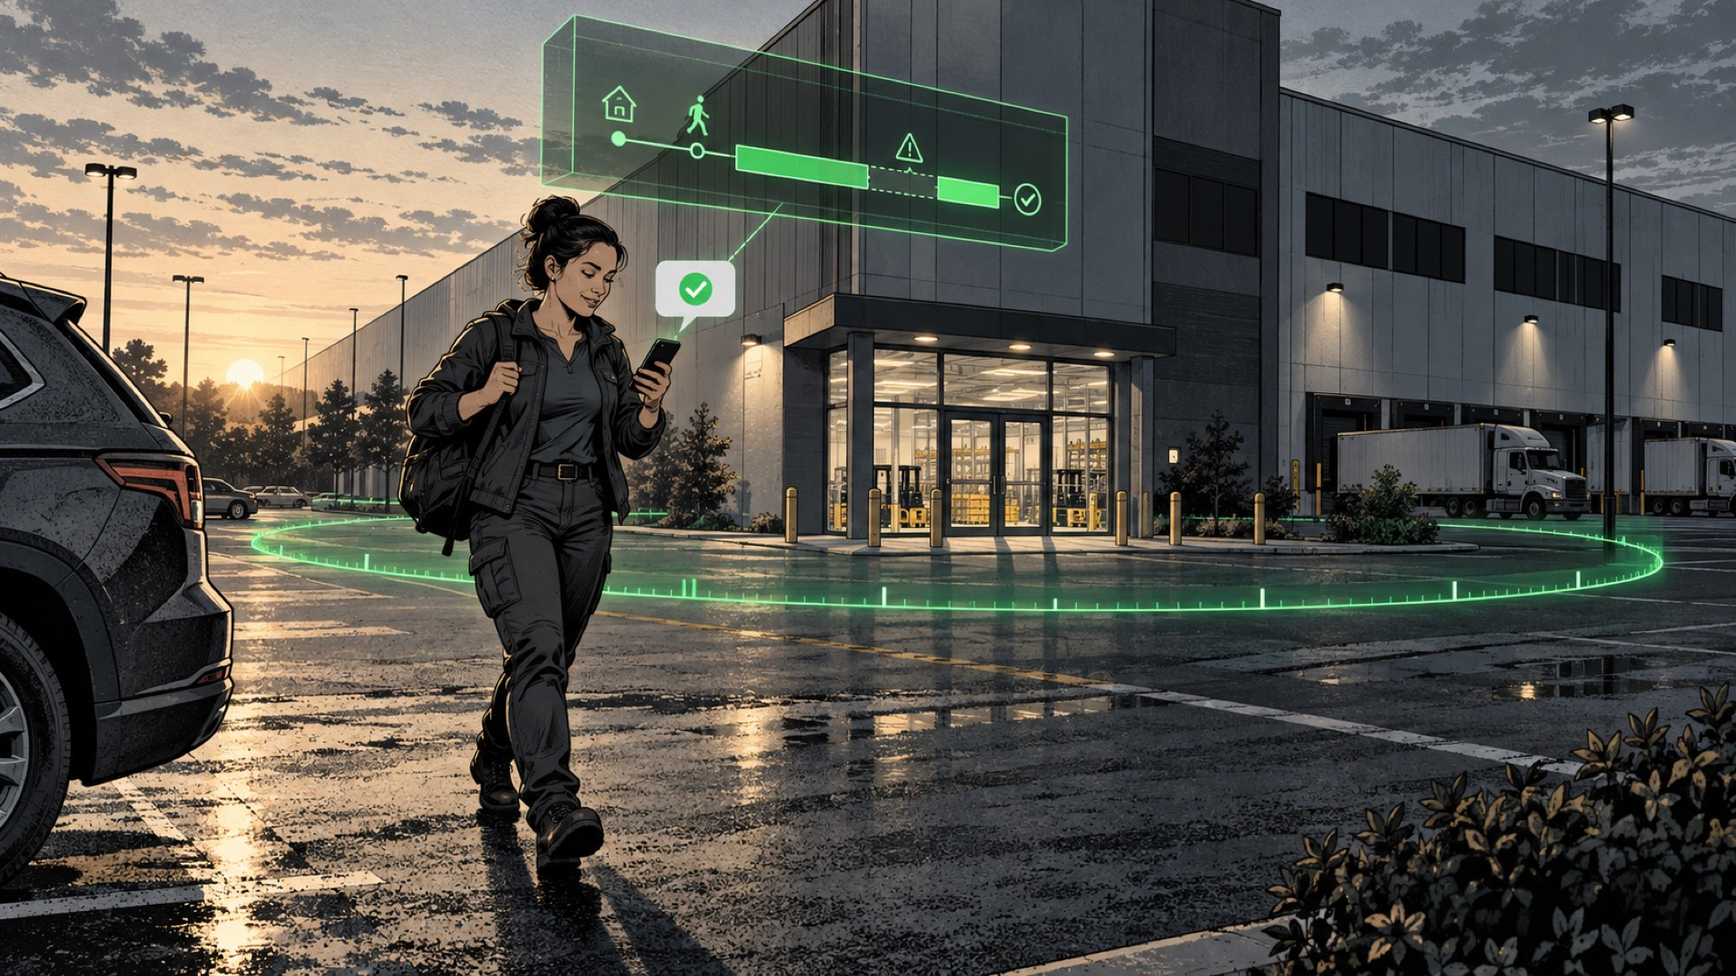
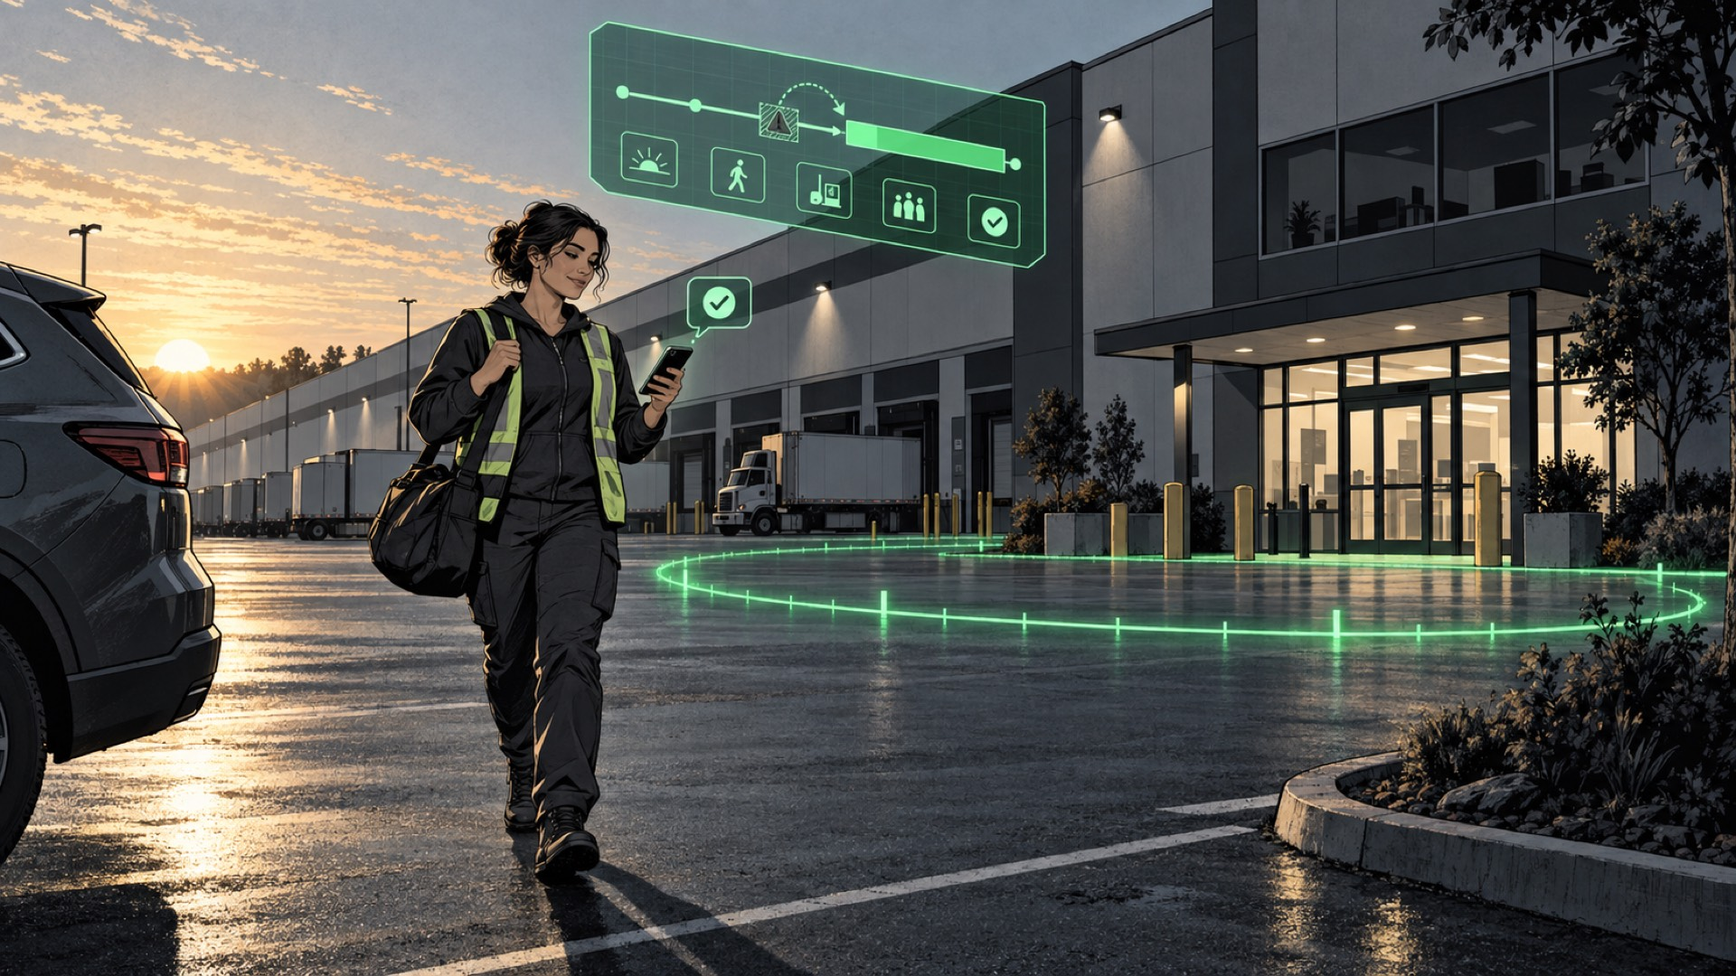
story: extend to 30 slides — data beat, payroll-ops AI frames 13–19, eight product component screenshots
Claude-Session: https://claude.ai/code/session_01WeFBVZdtUQHxNr4TKy9Cv4

diff --git a/story/index.html b/story/index.html
@@ -10,7 +10,7 @@
   <link rel="preconnect" href="https://fonts.googleapis.com">
   <link rel="preconnect" href="https://fonts.gstatic.com" crossorigin>
   <link href="https://fonts.googleapis.com/css2?family=Space+Grotesk:wght@500;700&family=Inter:wght@400;500&display=swap" rel="stylesheet">
-  <link rel="stylesheet" href="deck.css?v=3">
+  <link rel="stylesheet" href="deck.css?v=4">
 </head>
 <body>
   <header class="chrome">
@@ -128,6 +128,160 @@
       </div>
     </section>
 
+
+    <section class="slide">
+      <figure class="frame frame--ui" data-label="ui-retention"><img src="assets/ui-retention.jpg" alt="Report chart: 49% of workers start a job search after two paycheck errors"></figure>
+      <div class="copy">
+        <p class="eyebrow">13 · The numbers</p>
+        <h1>Two paycheck errors and half your workforce is looking.</h1>
+        <p>This is not a hunch. 49% of U.S. workers start job hunting after two paycheck problems, and replacing a worker earning under $30K costs 16% of annual pay.</p>
+      </div>
+    </section>
+
+    <section class="slide">
+      <figure class="frame frame--ui" data-label="ui-turnover"><img src="assets/ui-turnover.jpg" alt="Report chart: hospital RN turnover by year with cost tiles"></figure>
+      <div class="copy">
+        <p class="eyebrow">14 · The numbers</p>
+        <h1>Turnover is the P&L.</h1>
+        <p>Healthcare pays about $60,000 for every nurse who leaves. Light industrial refills most of the roster every year. Reliability is the number that compounds.</p>
+      </div>
+    </section>
+
+    <section class="slide">
+      <figure class="frame" data-label="13-two-questions"><img src="assets/13-two-questions.jpg" alt="A shift card between a pay envelope and a customer invoice"></figure>
+      <div class="copy">
+        <p class="eyebrow">15 · Payroll ops</p>
+        <h1>Every shift has to answer two questions.</h1>
+        <p>How much do I pay the worker? How much do I bill the customer? Every shift, every week, before the cutoff.</p>
+      </div>
+    </section>
+
+    <section class="slide">
+      <figure class="frame" data-label="14-three-clocks"><img src="assets/14-three-clocks.jpg" alt="Three panels: a badge kiosk, a phone clock-in, a GPS trail, each with a different time"></figure>
+      <div class="copy">
+        <p class="eyebrow">16 · Payroll ops</p>
+        <h1>The answer comes from three sources that disagree.</h1>
+        <p>The customer's clock or clipboard. The app the worker clocks in on. The phone's location. They arrive at different times and rarely say the same thing.</p>
+      </div>
+    </section>
+
+    <section class="slide">
+      <figure class="frame" data-label="15-rulebook-in-heads"><img src="assets/15-rulebook-in-heads.jpg" alt="Payroll clerk surrounded by binders and sticky notes, reciting rules from memory"></figure>
+      <div class="copy">
+        <p class="eyebrow">17 · Payroll ops</p>
+        <h1>The rulebook lives in people's heads.</h1>
+        <p>State law, city ordinances, client contracts, facility quirks, this week's exceptions. Your best payroll person carries it all. When they leave, it leaves with them.</p>
+      </div>
+    </section>
+
+    <section class="slide">
+      <figure class="frame" data-label="16-compile"><img src="assets/16-compile.jpg" alt="Binders fed into a compiler machine that stamps a strip of shift cards"></figure>
+      <div class="copy">
+        <p class="eyebrow">18 · Payroll ops</p>
+        <h1>Compile the rulebook once. Run it on every shift.</h1>
+        <p>Each rule is written in plain English, compiled once into a deterministic check, and applied to every shift before payroll runs. No prompting, no guessing.</p>
+      </div>
+    </section>
+
+    <section class="slide">
+      <figure class="frame" data-label="17-agent-conversation"><img src="assets/17-agent-conversation.jpg" alt="Worker on a loading dock answering a text while a flagged shift resolves"></figure>
+      <div class="copy">
+        <p class="eyebrow">19 · Payroll ops</p>
+        <h1>The agent asks the worker, not the clerk.</h1>
+        <p>When a shift is missing a fact, the agent texts the person who has it while it is still fresh. The exception closes before anyone in the middle office sees it.</p>
+      </div>
+    </section>
+
+    <section class="slide">
+      <figure class="frame" data-label="18-human-queue"><img src="assets/18-human-queue.jpg" alt="Calm ops desk with three shift cards and a recycling bin full of paper timesheets"></figure>
+      <div class="copy">
+        <p class="eyebrow">20 · Payroll ops</p>
+        <h1>Humans handle only what needs a human.</h1>
+        <p>Clean shifts go out on time. Flagged ones arrive with the rule, the evidence and the dollar delta already attached.</p>
+      </div>
+    </section>
+
+    <section class="slide">
+      <figure class="frame" data-label="19-receipt"><img src="assets/19-receipt.jpg" alt="Evidence board with a pay stub connected by string to clock, map, clause and messages"></figure>
+      <div class="copy">
+        <p class="eyebrow">21 · Payroll ops</p>
+        <h1>Every decision shows its work.</h1>
+        <p>Clock, location, clause, conversation, approval. Pinned to every payout and every invoice line, so a dispute takes a minute instead of a week.</p>
+      </div>
+    </section>
+
+    <section class="slide">
+      <figure class="frame frame--ui" data-label="ui-connect"><img src="assets/ui-connect.jpg" alt="Connect tab: timesheet sources list and what is pulled from UKG Ready"></figure>
+      <div class="copy">
+        <p class="eyebrow">22 · Product · Connect</p>
+        <h1>Connect the systems your sites already use.</h1>
+        <p>UKG, ADP, Ubeya, 7shifts, Paylocity, the facility wall clock. Punches, schedules, meal punches, edits after approval. One sync, one field mapping.</p>
+      </div>
+    </section>
+
+    <section class="slide">
+      <figure class="frame frame--ui" data-label="ui-xray-timeline"><img src="assets/ui-xray-timeline.jpg" alt="Shift X-Ray timeline with location, system, worker and facility columns"></figure>
+      <div class="copy">
+        <p class="eyebrow">23 · Product · Shift X-Ray</p>
+        <h1>Three sources for one shift, on one timeline.</h1>
+        <p>Location from the phone, the system record, the worker's clock-in, the facility tablet. A missed punch or a real overtime shows up as a gap you can see.</p>
+      </div>
+    </section>
+
+    <section class="slide">
+      <figure class="frame frame--ui" data-label="ui-reconcile"><img src="assets/ui-reconcile.jpg" alt="Reconcile tab: worker-grouped pay cycle sheet with the discrepancies pane"></figure>
+      <div class="copy">
+        <p class="eyebrow">24 · Product · Reconcile</p>
+        <h1>Every punch beside every other source. Every discrepancy names the rule.</h1>
+        <p>The pay cycle, worker by worker. Source tags on every row, the delta in dollars, and the discrepancy queue with the rule that fired and what it is worth.</p>
+      </div>
+    </section>
+
+    <section class="slide">
+      <figure class="frame frame--ui" data-label="ui-drawer"><img src="assets/ui-drawer.jpg" alt="Rule and source drawer open over the pay cycle sheet"></figure>
+      <div class="copy">
+        <p class="eyebrow">25 · Product · Reconcile</p>
+        <h1>Every flag traces to a clause.</h1>
+        <p>Open a discrepancy and the rule, the clause it was compiled from, and the shift it fired on are one click apart.</p>
+      </div>
+    </section>
+
+    <section class="slide">
+      <figure class="frame frame--ui" data-label="ui-rules"><img src="assets/ui-rules.jpg" alt="Rules tab: CA meal break rule with the verbatim Wage Order clause"></figure>
+      <div class="copy">
+        <p class="eyebrow">26 · Product · Rules</p>
+        <h1>Rules compiled from the source text, not from memory.</h1>
+        <p>A 30-minute meal rule in plain English, compiled from the Wage Order, with the verbatim clause highlighted beside it. Deterministic, live, applied this cycle.</p>
+      </div>
+    </section>
+
+    <section class="slide">
+      <figure class="frame frame--ui" data-label="ui-xray-cards"><img src="assets/ui-xray-cards.jpg" alt="Shift header with claimed, adjustment and final pay cards"></figure>
+      <div class="copy">
+        <p class="eyebrow">27 · Product · Shift X-Ray</p>
+        <h1>Claimed, adjusted, final. And why.</h1>
+        <p>Eight hours claimed. GPS shows on site until 4:45 and the manager's message authorizes the overtime. Plus 2.2 hours credited, approved in one click.</p>
+      </div>
+    </section>
+
+    <section class="slide">
+      <figure class="frame frame--ui" data-label="ui-payrun"><img src="assets/ui-payrun.jpg" alt="Pay run table with Send to ADP and the held shifts batch"></figure>
+      <div class="copy">
+        <p class="eyebrow">28 · Product · Payroll</p>
+        <h1>The pay run goes out with the held shifts excluded.</h1>
+        <p>Ready workers are sent to ADP. Held shifts wait with the reason attached and the person who can answer already notified.</p>
+      </div>
+    </section>
+
+    <section class="slide">
+      <figure class="frame frame--ui" data-label="ui-first-cycle"><img src="assets/ui-first-cycle.jpg" alt="Report tiles: flagged shifts, held shifts, corrections"></figure>
+      <div class="copy">
+        <p class="eyebrow">29 · Product · Reports</p>
+        <h1>Pay right the first cycle.</h1>
+        <p>Seventeen flagged, five held, every correction accounted for, before a worker ever sees a wrong paycheck.</p>
+      </div>
+    </section>
+
     <section class="slide slide--close">
       <div class="sprite" aria-hidden="true"></div>
       <div class="copy copy--center">
@@ -143,6 +297,6 @@
     <button type="button" id="prev" aria-label="Previous">←</button>
     <button type="button" id="next" aria-label="Next">→</button>
   </nav>
-  <script src="deck.js?v=2"></script>
+  <script src="deck.js?v=4"></script>
 </body>
 </html>

diff --git a/story/deck.css b/story/deck.css
@@ -22,6 +22,7 @@ html, body { margin: 0; height: 100%; background: var(--bg); color: var(--ink); 
 /* frame: 16:9 storyboard panel, letterboxed above the caption band */
 .frame { margin: 0; flex: 1 1 0; min-height: 0; overflow: hidden; padding: 64px 28px 0; display: flex; align-items: center; justify-content: center; }
 .frame img { max-width: 100%; max-height: 100%; width: auto; height: auto; object-fit: contain; border-radius: 6px; box-shadow: 0 30px 80px rgba(0,0,0,.6); }
+.frame--ui img { border: 1px solid #2a2a2e; border-radius: 8px; background: #fff; }
 .frame.is-missing img { display: none; }
 .frame.is-missing::after { content: "GENERATING · " attr(data-label); width: 100%; max-width: calc(100vh * 16/9 - 200px); aspect-ratio: 16/9; display: grid; place-items: center; border: 1px dashed #333; border-radius: 6px; color: var(--muted); font-family: var(--display); letter-spacing: .08em; font-size: 13px; }
 

diff --git a/story/assets/raw/manifest.md b/story/assets/raw/manifest.md
@@ -1,15 +1,22 @@
 01-the-lunch.png | /Users/vibes/.codex/generated_images/01a0913c-0fe6-7270-88f2-14dd1e82ee72/exec-0d9bc823-a2bc-4661-8c26-3f39c12a0529.png | Retried once with stronger no-text constraints for paperwork and keypad; second attempt accepted.
 02-the-gap.png | /Users/vibes/.codex/generated_images/01a0913c-0fe6-7270-88f2-14dd1e82ee72/exec-9b6bcf25-feb8-4859-a082-d87e2a4193fe.png | No retry.
 03-already-matched.png | /Users/vibes/.codex/generated_images/01a0913c-0fe6-7270-88f2-14dd1e82ee72/exec-9eac4e43-b2cc-47c1-ac64-8e6bc264e53a.png | Retried once with stronger no-text constraints for phone status bar and package labels; second attempt accepted.
+04-middle-office.png | /Users/vibes/.codex/generated_images/01a0914b-d17e-7601-a5c1-181857488225/exec-67c6af5c-6c70-45f3-a544-014e08e62b4d.png | retried once: visible clock numbers; strengthened no text of any kind; second attempt accepted
 04-middle-office.png | /Users/vibes/.codex/generated_images/01a0914b-d17e-7601-a5c1-181857488225/exec-d31c1ea9-974c-4e33-931b-bd56ed8a65ef.png | see codex-04.log
 05-trust.png | /Users/vibes/.codex/generated_images/01a0914b-d18a-7903-bb65-0b2d531c6ee8/exec-43d955fa-4eff-4ab7-bf47-5beaf611f475.png | none
 06-revolving-door.png | /Users/vibes/.codex/generated_images/01a0914b-d142-7e41-9474-14ce6b32647f/exec-0bedeb13-b18f-4157-9013-70e7713ce9e0.png | see codex-06.log
+06-revolving-door.png | /Users/vibes/.codex/generated_images/01a0914b-d142-7e41-9474-14ce6b32647f/exec-1cfe5f22-3583-483f-8a71-6b7d02050182.png | regenerated once with stronger no-text instruction after lettering on pay stubs and wall notice; second attempt accepted
 07-the-choice.png | /Users/vibes/.codex/generated_images/01a0914b-d1b3-74f1-b628-b5c7ff43f019/exec-fbc1f6d4-9453-44c5-88b5-8015c197d206.png | Retried once: first green icon resembled O; strengthened no text of any kind; accepted second attempt.
 08-left-hanging.png | /Users/vibes/.codex/generated_images/01a0914b-d1c0-7633-b4dc-1cc0c7d2f5c1/exec-ac7bfa98-07b4-419f-911b-fa0b1d865fd2.png | none
 09-vms-choice.png | /Users/vibes/.codex/generated_images/01a0914b-d261-7c93-9efc-0787cd402f29/exec-96e245fd-ef7c-4bc7-8a38-4e8b3776a071.png | none
 10-flywheel.png | /Users/vibes/.codex/generated_images/01a0914b-d588-7c10-a3f9-b8adece9692c/exec-33c0de38-048b-4bc7-8519-c89c6eccb18e.png | none
 11-one-coin.png | /Users/vibes/.codex/generated_images/01a0914b-d5ea-7fa0-afd1-3dcd2a1d7161/exec-5223d3f6-cdc5-4718-af1f-467cfe2ae37d.png | retried once: lettering-like coin marks and rendered finish; strengthened no text of any kind and flat ink-and-cel; second attempt accepted
 12-real-time.png | /Users/vibes/.codex/generated_images/01a0914b-d715-7ae2-878a-62267cddc4e7/exec-49ada170-f74c-4ea2-b527-162349d01227.png | see codex-12.log
-06-revolving-door.png | /Users/vibes/.codex/generated_images/01a0914b-d142-7e41-9474-14ce6b32647f/exec-1cfe5f22-3583-483f-8a71-6b7d02050182.png | regenerated once with stronger no-text instruction after lettering on pay stubs and wall notice; second attempt accepted
-04-middle-office.png | /Users/vibes/.codex/generated_images/01a0914b-d17e-7601-a5c1-181857488225/exec-67c6af5c-6c70-45f3-a544-014e08e62b4d.png | retried once: visible clock numbers; strengthened no text of any kind; second attempt accepted
 12-real-time.png | /Users/vibes/.codex/generated_images/01a0914b-d715-7ae2-878a-62267cddc4e7/exec-d41621a5-381a-4ea7-a47b-c972c44c7921.png | retry once: possible tiny bay numerals; strengthened no text of any kind; second attempt accepted
+13-two-questions.png | /Users/vibes/.codex/generated_images/01a0916b-167c-7850-a7bd-3ec7c3a901e8/exec-087d945e-7ea5-4892-88ec-9a624dac0c3e.png | retry once: calculator numbers and cheque lettering in first attempt; strengthened no text of any kind; second attempt accepted
+14-three-clocks.png | /Users/vibes/.codex/generated_images/01a0916b-167c-7ef2-8f3e-466de3c2686d/exec-01cf536d-4438-4e51-a643-74f36164ba8f.png | none
+15-rulebook-in-heads.png | /Users/vibes/.codex/generated_images/01a0916b-167c-7351-8884-806414f21b07/exec-a9deb500-b777-4035-93a8-1e76f1a143a7.png | retry once: lettering on first attempt; strengthened no text of any kind; second attempt accepted
+16-compile.png | /Users/vibes/.codex/generated_images/01a0916b-167c-7241-9ceb-18af37851435/exec-ef4f18bb-a02e-431b-85c5-4cebfe51a36d.png | retry once: strengthened no text of any kind after handwriting-like marks; accepted second attempt
+17-agent-conversation.png | /Users/vibes/.codex/generated_images/01a0916b-167c-7d60-86e1-7c1c095ccdbf/exec-7d2fbcea-b30c-4a50-a4be-2a5bb958e7f2.png | retried once: letter-like marks in first attempt; strengthened no text of any kind; second attempt accepted
+18-human-queue.png | /Users/vibes/.codex/generated_images/01a0916b-167c-7772-b7bd-ccc5ca735077/exec-d255c8c6-7f33-4f83-8849-926cc55b6544.png | retried once for readable clock numerals; strengthened no text of any kind; accepted second attempt
+19-receipt.png | /Users/vibes/.codex/generated_images/01a0916b-167c-76c2-be78-06783d446bfe/exec-6ebe9530-bd63-4d8a-9df3-fdc35636d1a3.png | regenerated once with strengthened no text of any kind after lettering appeared on the first attempt; second attempt accepted

diff --git a/story/STORYBOARD.md b/story/STORYBOARD.md
@@ -43,3 +43,26 @@ Boardroom table at night, single hard spotlight. A large coin stands on edge mid
 
 ### 12 · real-time — "Now we can notice exceptions and address them in real time."
 Dawn at a distribution centre parking lot. A worker walks from her car across the asphalt toward the entrance; drawn on the ground around the building is a glowing green geofence ring, rendered as a precise technical overlay with tick marks. Her phone buzzes with an abstract SMS bubble and a check mark. Hovering above her, a semi-transparent isometric holographic panel drawn in green wireframe shows a shift timeline with one exception being resolved into a clean bar. In the far background the middle-office windows are dark, nobody stayed late. Optimistic mood.
+
+## Act 3 — Payroll ops, the AI story
+
+### 13 · two-questions — "Every shift has to answer two questions."
+Night, a payroll clerk's workbench seen from directly above, one desk lamp. In the centre a single completed-shift card, blank and abstract, with a worker's badge photo silhouette. To its left a worker's pay envelope with a cheque peeking out; to its right a customer invoice on a clipboard with a stamp pad. The clerk's two hands hold two different pens, one hovering over each. Around the edges: a calculator, a stapler, coffee ring stains, a stack of other shift cards waiting. The shift card in the centre glows faintly green.
+
+### 14 · three-clocks — "The answer comes from three sources that disagree."
+One frame split into three vertical panels like a comic strip. Left panel: a wall-mounted badge kiosk at a warehouse entrance with a paper sign-in clipboard hanging beside it and a round wall clock above. Middle panel: a worker's hand holding a phone with an abstract clock-in app, a second round clock on the screen. Right panel: a bird's-eye map drawn as a technical overlay, a dotted GPS trail from a car park to a building outline, a third clock drawn in the corner. All three clock faces show visibly different times (hands only, no numerals). Only the GPS trail is green.
+
+### 15 · rulebook-in-heads — "The rulebook lives in people's heads."
+A payroll clerk at a desk drowning in institutional memory: a fat three-ring binder of client contracts propped open, a union agreement booklet, dozens of sticky notes on the monitor bezel and wall, a hand-drawn cheat sheet taped to the desk, a rolodex, a desk phone ringing with its light blinking, two mugs. The clerk has one finger on a binder clause and the other hand on a calculator, eyes closed, reciting from memory. Daylight through blinds. One single sticky note is green.
+
+### 16 · compile — "Compile the rulebook once. Run it on every shift."
+Interior of a clean modern print shop, cinematic side light. On the left, a stack of binders, contracts and handwritten rule sheets is fed into an elegant industrial machine drawn like a cross between a letterpress and a card-punch compiler, all brass rollers and glass panels. Out of the right side rolls a clean continuous strip of punched cards, each one a shift, moving along a conveyor under a stamping head. Gears mesh inside the glass. The stamp head glows green as it marks each card.
+
+### 17 · agent-conversation — "The agent asks the worker, not the clerk."
+A worker on break sitting on the edge of a loading dock at dusk, legs dangling, coffee beside her, phone in hand. Her phone shows an abstract text-message thread: one incoming bubble, one outgoing bubble, no words. Floating beside her, a semi-transparent holographic panel drawn in thin wireframe shows a shift timeline with a single flagged gap; a check mark is replacing the flag. In the background, forklifts and pallets, the warehouse humming. Only the check mark is green.
+
+### 18 · human-queue — "Humans handle only what needs a human."
+Bright morning, a calm operations desk by a window with plants. One ops person, relaxed, coffee in hand, looking at three shift cards laid neatly on the desk, that is the whole queue. Beside the desk a recycling bin overflowing with the paper timesheet mountain from before. On the wall a clock at nine in the morning. Through the window, the parking lot fills with workers arriving. The top card of the three glows green.
+
+### 19 · receipt — "Every decision shows its work."
+Close-up of a detective's evidence board, but for one payout. Pinned in the centre: an abstract pay stub. Connected to it by taut string and pushpins: a photo of a badge kiosk clock, a small map with a GPS trail, a highlighted clause torn from a contract page, a printed text-message bubble, a customer's signed approval slip. Warm lamp light from the side, corkboard texture, a magnifying glass resting on the ledge below. The string connecting the evidence is green.

diff --git a/story/README.md b/story/README.md
@@ -1,6 +1,6 @@
 # Protect your revenue — middle-office storyboard deck
 
-Thirteen slides: twelve storyboard frames plus a close. Narrative: tech-enabled staffing firms deploy AI faster; AI has done recruiting and matching, the middle office (pay and bill) is next; workers and customers both re-choose you every day, so pay accuracy is revenue protection.
+Thirty slides: nineteen storyboard frames, two data beats, eight product component screenshots, and a close. Narrative: tech-enabled staffing firms deploy AI faster; AI has done recruiting and matching, the middle office (pay and bill) is next; workers and customers both re-choose you every day, so pay accuracy is revenue protection (frames 01–12). Then the payroll-ops AI story: two questions per shift, three sources that disagree, the rulebook in people's heads, compile it once, the agent asks the worker, humans handle only what needs a human, every decision shows its work (frames 13–19). Then the product, as components rather than full screens: Connect, Shift X-Ray timeline, Reconcile sheet and discrepancies, the rule-and-source drawer, Rules, the claimed/adjusted/final cards, the pay run, and the closeout report tiles (slides 22–29).
 
 Live at https://closeoutcopilot.com/story/. Locally, serve from the repo root so the shared logo and hero sprites load:
 
@@ -12,4 +12,8 @@ Open http://127.0.0.1:4177/story/ — keys: arrows / space / backspace, Home / E
 
 ## Images
 
-All twelve frames were generated with the Codex CLI built-in image generation tool (session driven by `gpt-6-astra`, reasoning effort ultra) from `STORYBOARD.md`, one shared STYLE block plus a per-frame SCENE. Originals in `assets/raw/*.png` (see `assets/raw/manifest.md` for the `~/.codex/generated_images` provenance); deck copies are 1920-wide JPEGs at quality 70 in `assets/`.
+All nineteen illustrated frames were generated with the Codex CLI built-in image generation tool (session driven by `gpt-6-astra`, reasoning effort ultra) from `STORYBOARD.md`, one shared STYLE block plus a per-frame SCENE. Originals in `assets/raw/*.png` (see `assets/raw/manifest.md` for the `~/.codex/generated_images` provenance); deck copies are 1920-wide JPEGs at quality 70 in `assets/`.
+
+## Product screenshots
+
+The `assets/ui-*.jpg` components were captured headlessly from this repo's own pages at 1440×900 rendered at 2× (`/bench` Payroll Desk tabs and `/xray` Shift X-Ray) and cropped to the component, not the full screen. All figures on them are synthetic fixtures; the Reports numbers cite their sources inside the product.
